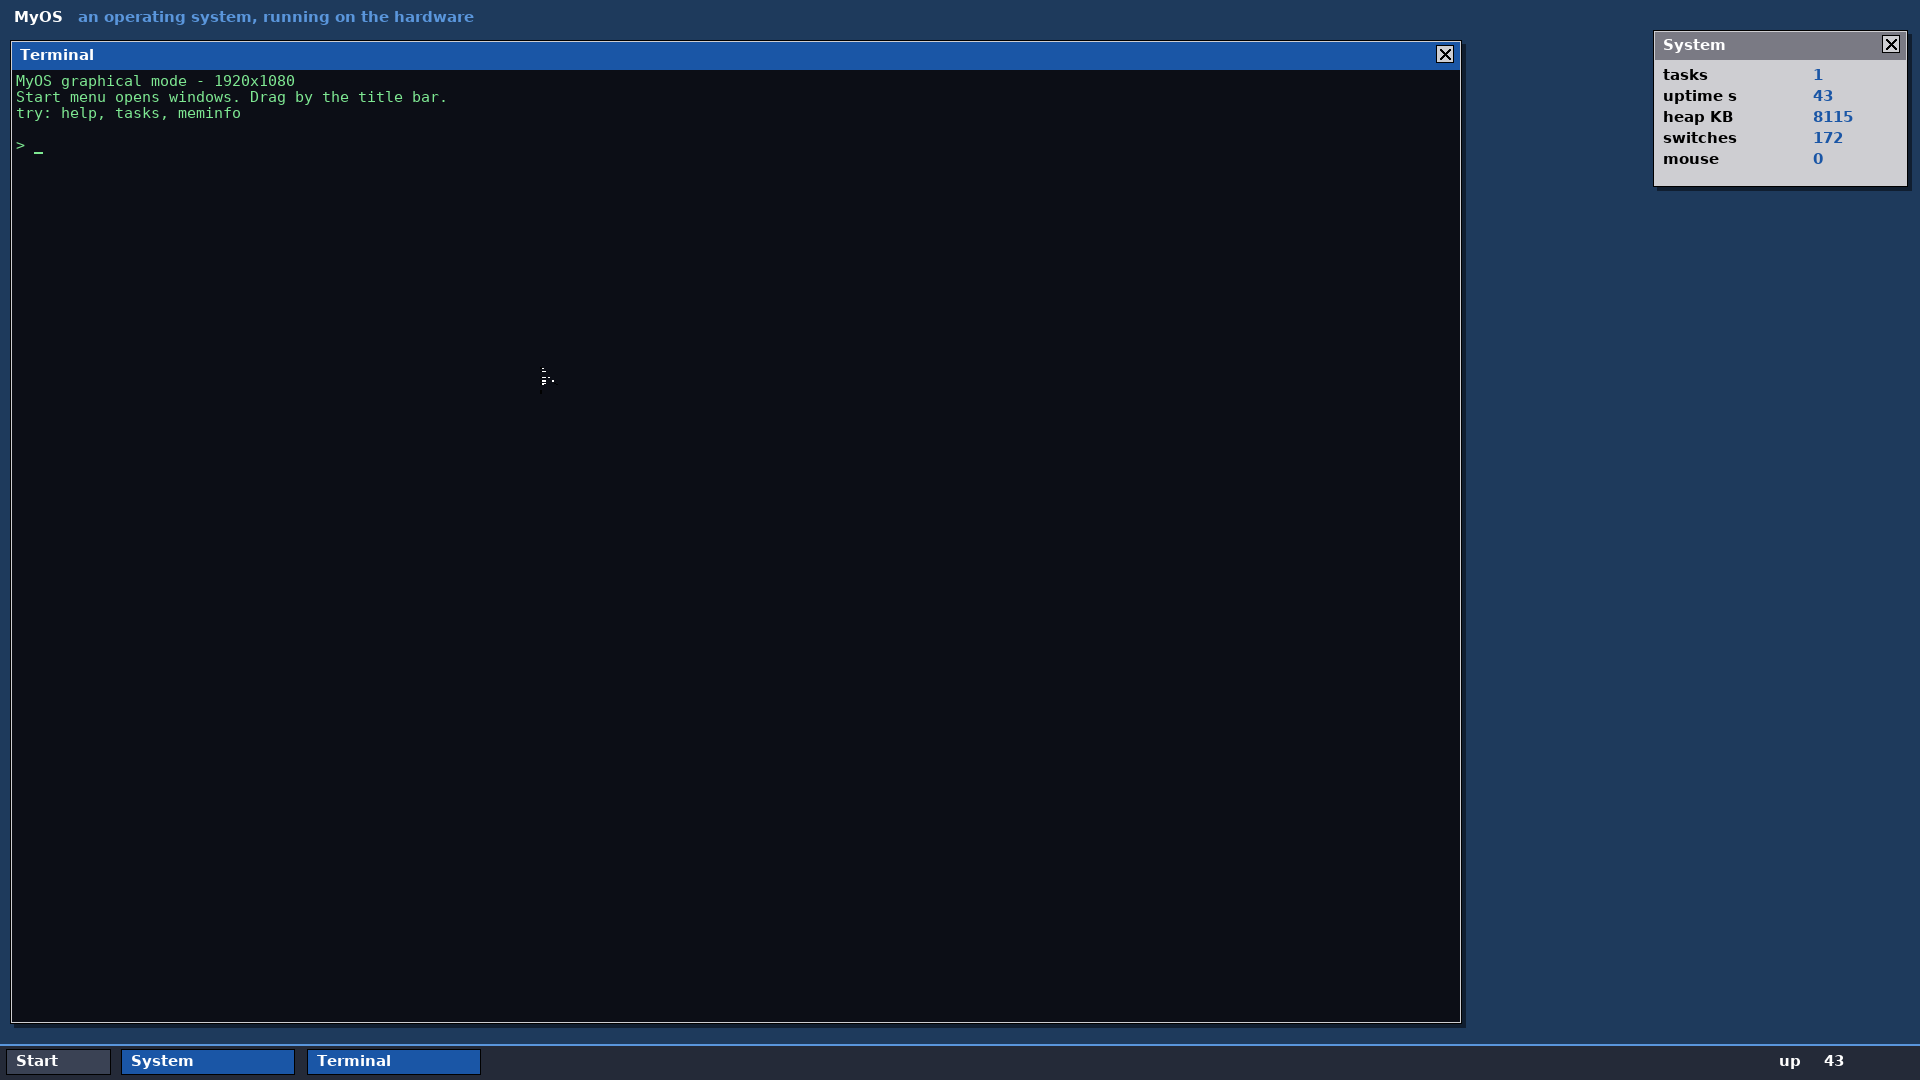
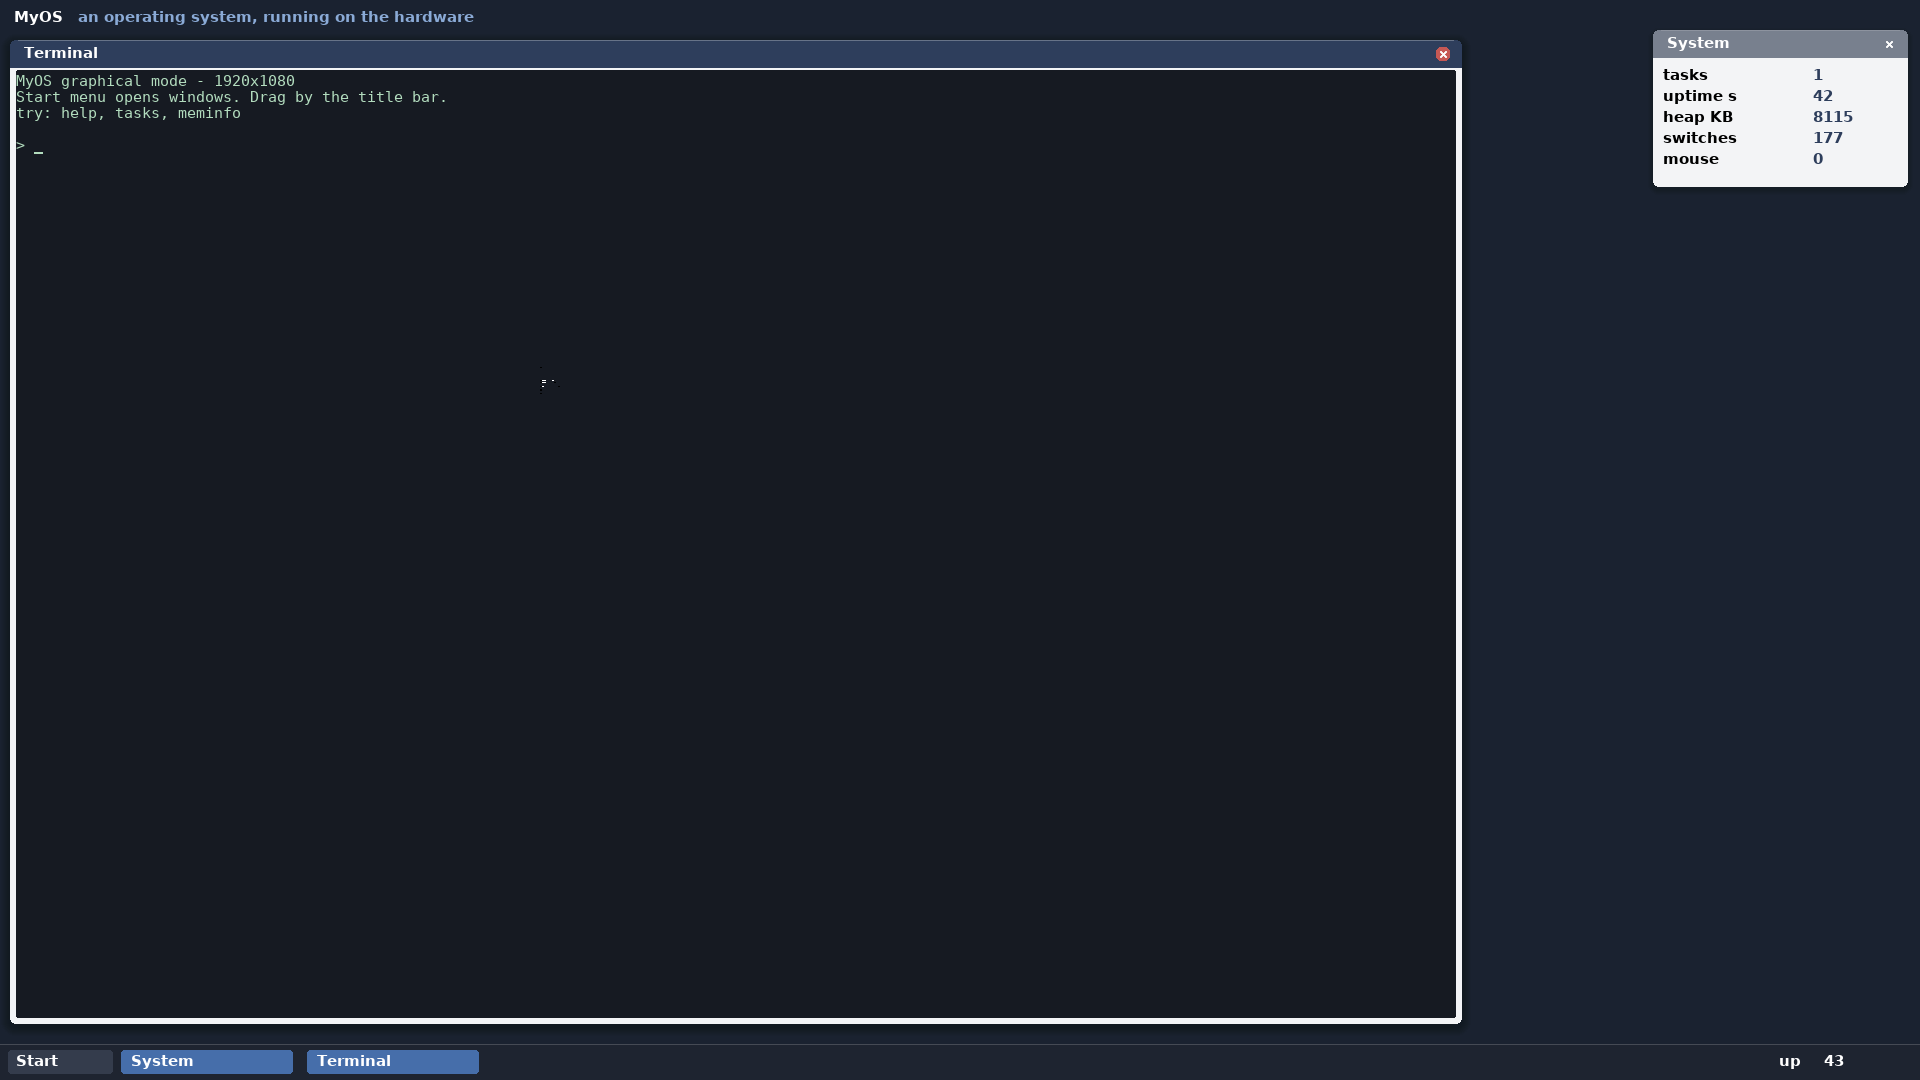
Visual pass: soft shadows, rounded corners, a muted palette
Saturated primaries are most of what made this look like a toy. Desktops
sit in a narrow band of desaturated greys and blues and spend contrast only
where it carries meaning, so the palette moves there and the hard black
borders go entirely -- a single hairline of light along the top edge does
the work a border was doing, and suggests a light source rather than drawing
one.

Rounded corners and shadows are both alpha work rather than shape work. A
corner is a filled rectangle whose corner pixels are blended by how much of
each falls inside the curve; omitting them outright gives a stair-stepped
arc that looks worse than a square corner. A shadow is many faint rounded
rectangles stacked with decreasing size, so opacity accumulates towards the
window and fades outward -- a gradient built from flat fills. It is offset
downward, because light is assumed to come from above.

The focused window gets a deeper shadow than the others, which is how a
desktop shows what is in front without changing its colour.

22 self-tests pass.

diff --git a/kernel/gui.c b/kernel/gui.c
@@ -58,6 +58,7 @@ static bool start_menu_open;
 static uint32_t col_desktop, col_face, col_edge, col_shade;
 static uint32_t col_title_on, col_title_off, col_term_bg, col_term_fg;
 static uint32_t col_bar, col_btn, col_btn_on, col_white, col_black, col_accent;
+static uint32_t col_close;
 
 /* ---- terminal ------------------------------------------------------------ */
 
@@ -114,39 +115,52 @@ static void clamp_window(window_t *win)
     if (win->y < 0) win->y = 0;
 }
 
+#define WIN_RADIUS 8
+
 static void draw_window_frame(const window_t *win, bool active)
 {
-    fb_fill_rect(win->x + 4, win->y + 4, win->w, win->h, col_shade);
-    fb_fill_rect(win->x, win->y, win->w, win->h, col_face);
-    fb_rect(win->x, win->y, win->w, win->h, col_black);
+    /* The focused window gets a deeper shadow. Depth is how a desktop shows
+     * which window is in front without needing a colour change. */
+    fb_shadow(win->x, win->y, win->w, win->h, WIN_RADIUS, active ? 9 : 5);
 
-    fb_fill_rect(win->x + BORDER, win->y + BORDER,
-                 win->w - 2 * BORDER, TITLE_H,
+    fb_fill_round_rect(win->x, win->y, win->w, win->h, WIN_RADIUS, col_face);
+
+    /* Title bar. Its bottom corners are square so it meets the window body
+     * flush, which means drawing it as a rounded rect and then squaring off
+     * the lower half. */
+    fb_fill_round_rect(win->x, win->y, win->w, TITLE_H, WIN_RADIUS,
+                       active ? col_title_on : col_title_off);
+    fb_fill_rect(win->x, win->y + TITLE_H - WIN_RADIUS, win->w, WIN_RADIUS,
                  active ? col_title_on : col_title_off);
 
-    fb_text_aa(win->x + 10, win->y + (TITLE_H - fb_font_height(true)) / 2 + BORDER,
+    /* A single lighter line along the top edge. Real interfaces suggest a
+     * light source rather than drawing a border, and one row is enough. */
+    fb_blend_rect(win->x + WIN_RADIUS, win->y, win->w - 2 * WIN_RADIUS, 1,
+                  col_white, active ? 70 : 40);
+
+    fb_text_aa(win->x + 14, win->y + (TITLE_H - fb_font_height(true)) / 2,
                win->title, col_white, true);
 
-    /* Close box on the right of the title bar. */
-    int bs = TITLE_H - 10;
-    int bx = win->x + win->w - bs - 8;
-    int by = win->y + 5;
+    /* Close button: a circle that only shows its colour on the focused
+     * window, which is how it reads as inactive rather than disabled. */
+    int bs = TITLE_H - 14;
+    int bx = win->x + win->w - bs - 12;
+    int by = win->y + 7;
 
-    fb_fill_rect(bx, by, bs, bs, col_face);
-    fb_rect(bx, by, bs, bs, col_black);
+    fb_fill_round_rect(bx, by, bs, bs, bs / 2,
+                       active ? col_close : col_title_off);
 
-    /* An X, drawn as two diagonals. */
     for (int i = 4; i < bs - 4; i++) {
-        fb_fill_rect(bx + i, by + i, 2, 2, col_black);
-        fb_fill_rect(bx + bs - 1 - i, by + i, 2, 2, col_black);
+        fb_blend_rect(bx + i, by + i, 2, 2, col_white, 220);
+        fb_blend_rect(bx + bs - 1 - i, by + i, 2, 2, col_white, 220);
     }
 }
 
 static void close_box_rect(const window_t *win, int *bx, int *by, int *bs)
 {
-    *bs = TITLE_H - 10;
-    *bx = win->x + win->w - *bs - 8;
-    *by = win->y + 5;
+    *bs = TITLE_H - 14;
+    *bx = win->x + win->w - *bs - 12;
+    *by = win->y + 7;
 }
 
 static void draw_terminal(const window_t *win, bool active)
@@ -154,9 +168,8 @@ static void draw_terminal(const window_t *win, bool active)
     int tx = win->x + BORDER + 4;
     int ty = win->y + TITLE_H + BORDER + 4;
 
-    fb_fill_rect(win->x + BORDER, win->y + TITLE_H + BORDER,
-                 win->w - 2 * BORDER, win->h - TITLE_H - 2 * BORDER,
-                 col_term_bg);
+    fb_fill_round_rect(win->x + 6, win->y + TITLE_H + 2,
+                       win->w - 12, win->h - TITLE_H - 8, 5, col_term_bg);
 
     for (int row = 0; row < term_rows; row++)
         for (int col = 0; col < term_cols; col++) {
@@ -218,15 +231,14 @@ static void draw_start_menu(void)
     int mx = 4;
     int my = SCR_H - TASKBAR_H - mh;
 
-    fb_fill_rect(mx + 3, my + 3, mw, mh, col_shade);
-    fb_fill_rect(mx, my, mw, mh, col_face);
-    fb_rect(mx, my, mw, mh, col_black);
+    fb_shadow(mx, my, mw, mh, 8, 8);
+    fb_fill_round_rect(mx, my, mw, mh, 8, col_face);
 
     static const char *items[3] = { "Terminal", "System", "Exit to console" };
 
     for (int i = 0; i < 3; i++) {
         int iy = my + 6 + i * (CHROME_H + 10);
-        fb_fill_rect(mx + 4, iy, mw - 8, CHROME_H + 6, col_face);
+        fb_fill_round_rect(mx + 5, iy, mw - 10, CHROME_H + 6, 4, col_face);
         fb_text_aa(mx + 12, iy + 3, items[i], col_black, true);
     }
 }
@@ -236,13 +248,14 @@ static void draw_taskbar(void)
     int bar_y = SCR_H - TASKBAR_H;
 
     fb_fill_rect(0, bar_y, SCR_W, TASKBAR_H, col_bar);
-    fb_fill_rect(0, bar_y, SCR_W, 2, col_accent);
+
+    /* A hairline of light along the top rather than a coloured band. */
+    fb_blend_rect(0, bar_y, SCR_W, 1, col_white, 45);
 
     /* Start button. */
     int sw = 7 * CHROME_W;
-    fb_fill_rect(6, bar_y + 5, sw, TASKBAR_H - 10,
-                 start_menu_open ? col_btn_on : col_btn);
-    fb_rect(6, bar_y + 5, sw, TASKBAR_H - 10, col_black);
+    fb_fill_round_rect(8, bar_y + 6, sw, TASKBAR_H - 12, 6,
+                       start_menu_open ? col_btn_on : col_btn);
     fb_text_aa(16, bar_y + (TASKBAR_H - fb_font_height(true)) / 2, "Start", col_white, true);
 
     /* One button per window. Width is divided from the space that is actually
@@ -257,9 +270,8 @@ static void draw_taskbar(void)
     for (int i = 0; i < window_count && bw > 5 * CHROME_W; i++) {
         int bx = first + i * (bw + 6);
 
-        fb_fill_rect(bx, bar_y + 5, bw - 6, TASKBAR_H - 10,
-                     windows[i].visible ? col_btn_on : col_btn);
-        fb_rect(bx, bar_y + 5, bw - 6, TASKBAR_H - 10, col_black);
+        fb_fill_round_rect(bx, bar_y + 6, bw - 8, TASKBAR_H - 12, 6,
+                           windows[i].visible ? col_btn_on : col_btn);
         fb_text_aa(bx + 10, bar_y + (TASKBAR_H - fb_font_height(true)) / 2,
                    windows[i].title, col_white, true);
     }
@@ -486,20 +498,24 @@ void gui_run(void)
     TASKBAR_H = CHROME_H + 20;
     TITLE_H   = CHROME_H + 12;
 
-    col_desktop   = fb_rgb(30, 58, 92);
-    col_face      = fb_rgb(206, 206, 210);
-    col_edge      = fb_rgb(248, 248, 250);
-    col_shade     = fb_rgb(16, 30, 48);
-    col_title_on  = fb_rgb(26, 86, 166);
-    col_title_off = fb_rgb(122, 122, 132);
-    col_term_bg   = fb_rgb(12, 14, 22);
-    col_term_fg   = fb_rgb(126, 232, 146);
-    col_bar       = fb_rgb(36, 42, 56);
-    col_btn       = fb_rgb(58, 66, 84);
-    col_btn_on    = fb_rgb(26, 86, 166);
-    col_accent    = fb_rgb(90, 150, 220);
+    /* Muted and low-contrast. Saturated primaries are most of what makes an
+     * interface look like a toy; desktops sit in a narrow band of desaturated
+     * greys and blues and put contrast only where it carries meaning. */
+    col_desktop   = fb_rgb(26,  34,  48);
+    col_face      = fb_rgb(243, 244, 246);
+    col_edge      = fb_rgb(255, 255, 255);
+    col_shade     = fb_rgb(10,  14,  22);
+    col_title_on  = fb_rgb(46,  62,  92);
+    col_title_off = fb_rgb(120, 128, 142);
+    col_term_bg   = fb_rgb(22,  26,  34);
+    col_term_fg   = fb_rgb(178, 220, 190);
+    col_bar       = fb_rgb(30,  36,  48);
+    col_btn       = fb_rgb(52,  60,  76);
+    col_btn_on    = fb_rgb(70,  110, 170);
+    col_accent    = fb_rgb(138, 170, 214);
+    col_close     = fb_rgb(198, 88,  84);
     col_white     = fb_rgb(255, 255, 255);
-    col_black     = fb_rgb(0, 0, 0);
+    col_black     = fb_rgb(0,   0,   0);
 
     /* The stats window is sized first, from the longest label it has to show,
      * and the terminal then takes the width that is left. Sizing the terminal

diff --git a/kernel/fb.c b/kernel/fb.c
@@ -443,3 +443,123 @@ int fb_text_width(const char *s, bool ui)
 
 int fb_font_height(bool ui) { return ui ? font_ui_h : font_mono_h; }
 int fb_mono_advance(void)   { return font_mono_adv['M' - 32]; }
+
+/* ---- rounded rectangles and shadows ---------------------------------------
+ *
+ * Both are alpha work rather than shape work. A rounded corner is a filled
+ * rectangle whose corner pixels are blended by how much of each lies inside
+ * the curve, and a drop shadow is several translucent rectangles stacked with
+ * falling opacity. Doing the corners by simply omitting pixels gives a hard
+ * stair-stepped arc that looks worse than a square corner.
+ */
+
+/* Coverage of a pixel by a quarter circle, approximated by sampling the pixel
+ * at four points. Exact area would need square roots; four samples give five
+ * levels of coverage, which at these radii is indistinguishable. */
+static uint32_t corner_coverage(int px, int py, int r)
+{
+    int inside = 0;
+
+    for (int sy = 0; sy < 2; sy++) {
+        for (int sx = 0; sx < 2; sx++) {
+            int dx = r - (px * 2 + sx) / 2 - 1;
+            int dy = r - (py * 2 + sy) / 2 - 1;
+
+            if (dx * dx + dy * dy <= r * r)
+                inside++;
+        }
+    }
+
+    return (uint32_t)(inside * 255 / 4);
+}
+
+void fb_fill_round_rect(int x, int y, int w, int h, int r, uint32_t colour)
+{
+    if (!ready || w <= 0 || h <= 0)
+        return;
+
+    if (r * 2 > w) r = w / 2;
+    if (r * 2 > h) r = h / 2;
+    if (r < 1) {
+        fb_fill_rect(x, y, w, h, colour);
+        return;
+    }
+
+    /* Middle band full width, then the two end bands inset by the radius. */
+    fb_fill_rect(x, y + r, w, h - 2 * r, colour);
+    fb_fill_rect(x + r, y, w - 2 * r, r, colour);
+    fb_fill_rect(x + r, y + h - r, w - 2 * r, r, colour);
+
+    for (int py = 0; py < r; py++) {
+        for (int px = 0; px < r; px++) {
+            uint32_t a = corner_coverage(px, py, r);
+            if (a == 0)
+                continue;
+
+            fb_blend_rect(x + px,             y + py,             1, 1, colour, a);
+            fb_blend_rect(x + w - 1 - px,     y + py,             1, 1, colour, a);
+            fb_blend_rect(x + px,             y + h - 1 - py,     1, 1, colour, a);
+            fb_blend_rect(x + w - 1 - px,     y + h - 1 - py,     1, 1, colour, a);
+        }
+    }
+}
+
+/* Blend a rounded rectangle rather than filling it solid. Needed for the
+ * shadow, which is built from many faint layers. */
+void fb_blend_round_rect(int x, int y, int w, int h, int r,
+                         uint32_t colour, uint32_t alpha)
+{
+    if (!ready || w <= 0 || h <= 0 || alpha == 0)
+        return;
+
+    if (r * 2 > w) r = w / 2;
+    if (r * 2 > h) r = h / 2;
+
+    if (r < 1) {
+        fb_blend_rect(x, y, w, h, colour, alpha);
+        return;
+    }
+
+    fb_blend_rect(x, y + r, w, h - 2 * r, colour, alpha);
+    fb_blend_rect(x + r, y, w - 2 * r, r, colour, alpha);
+    fb_blend_rect(x + r, y + h - r, w - 2 * r, r, colour, alpha);
+
+    for (int py = 0; py < r; py++) {
+        for (int px = 0; px < r; px++) {
+            uint32_t cov = corner_coverage(px, py, r);
+            if (cov == 0)
+                continue;
+
+            /* Corner coverage scales the layer's own opacity, so a partly
+             * covered corner pixel in a faint layer stays faint. */
+            uint32_t a = (cov * alpha) >> 8;
+            if (a == 0)
+                continue;
+
+            fb_blend_rect(x + px,         y + py,         1, 1, colour, a);
+            fb_blend_rect(x + w - 1 - px, y + py,         1, 1, colour, a);
+            fb_blend_rect(x + px,         y + h - 1 - py, 1, 1, colour, a);
+            fb_blend_rect(x + w - 1 - px, y + h - 1 - py, 1, 1, colour, a);
+        }
+    }
+}
+
+void fb_shadow(int x, int y, int w, int h, int r, int spread)
+{
+    if (!ready || spread <= 0)
+        return;
+
+    uint32_t black = fb_rgb(0, 0, 0);
+
+    /* Faint layers, largest first, each one slightly smaller than the last.
+     * Where they overlap the opacity accumulates, so the result is dark near
+     * the window and fades outwards -- a gradient built from flat fills.
+     *
+     * The offset downward is what makes it read as a shadow rather than a
+     * halo: light is assumed to come from above, as it does in every desktop
+     * interface.
+     */
+    for (int i = spread; i >= 1; i--)
+        fb_blend_round_rect(x - i, y - i + 3, w + i * 2, h + i * 2,
+                            r + i, black, 10);
+}

diff --git a/kernel/fb.h b/kernel/fb.h
@@ -86,4 +86,14 @@ int  fb_mono_advance(void);
 /* Blend a colour over a region. Used for shadows and translucent panels. */
 void fb_blend_rect(int x, int y, int w, int h, uint32_t colour, uint32_t alpha);
 
+
+/* Rounded rectangle with anti-aliased corners, and a soft drop shadow.
+ * Both are alpha operations: omitting corner pixels outright gives a hard
+ * stair-stepped arc that looks worse than a square corner. */
+void fb_fill_round_rect(int x, int y, int w, int h, int radius, uint32_t colour);
+void fb_shadow(int x, int y, int w, int h, int radius, int spread);
+
+void fb_blend_round_rect(int x, int y, int w, int h, int radius,
+                         uint32_t colour, uint32_t alpha);
+
 #endif
